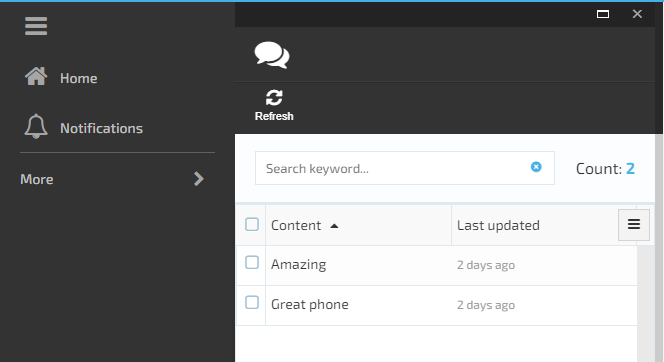
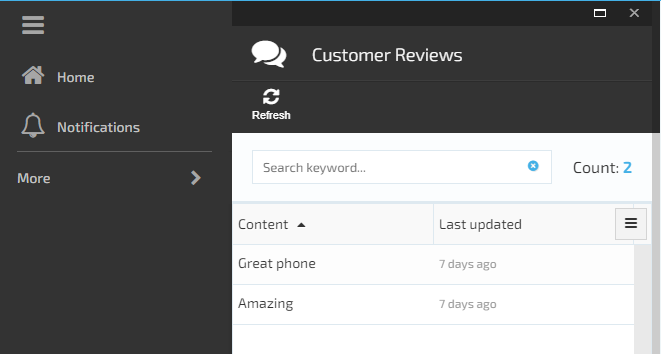
Add screenshots for blade CCIT-195
Blade titel defenition moved to state registring

diff --git a/pages/docs/lessons/lesson4.md b/pages/docs/lessons/lesson4.md
@@ -47,17 +47,24 @@ Please review this UI elements before you start creating "Customer Reviews" modu
 
 Blade is a main UI element of the Platform Manager. Every blade has basic parts such as Maximize, Close buttons on the top and the title, toolbar, main content placeholders following down. You can find out all the blade features on the [Blade constructor](https://virtocommerce.com/guides/blade-constructor)
 
+![Blade](../../assets/images/docs/lesson4-blade.png)
+
 Read more about blades in the [Blades and navigation](https://virtocommerce.com/docs/vc2devguide/working-with-platform-manager/basic-functions/blades-and-navigation) article.
+
 
 ### Toolbar
 
 A blade toolbar is a dedicated area inside blade for adding commands. Hereinafter, the toolbar commands shall be referenced to as toolbar items.
+
+![Toolbar](../../assets/images/docs/lesson4-blade-toolbar.png)
 
 Read more about toolbar in the [Blade toolbar](https://virtocommerce.com/docs/vc2devguide/working-with-platform-manager/basic-functions/blade-toolbar) article.
 
 ### Metaform
 
 A metaform is a placeholder (container) control that renders UI content based on provided metadata.
+
+![Metaform](../../assets/images/docs/lesson4-blade-metaform.png)
 
 Read more about metaform in the [Metaform](https://virtocommerce.com/docs/vc2devguide/working-with-platform-manager/basic-functions/metaform) article.
 
@@ -71,6 +78,8 @@ A widget is a relatively simple and intuitive web UI component in Platform Manag
 * is reusable and can be added to many blades (widget containers) in various places.
 
 A widget container is a placeholder control for widgets.
+
+![Widgetcontainer](../../assets/images/docs/lesson4-blade-widgetcontainer.png)
 
 Read more about widget container in the [Widgets](https://virtocommerce.com/docs/vc2devguide/working-with-platform-manager/basic-functions/widgets) article.
 
@@ -180,7 +189,6 @@ angular.module('customerReviewsModule')
 
 
             blade.headIcon = 'fa-comments';
-            blade.title = 'customerReviewsModule.blades.review-list.title'
 
             blade.toolbarCommands = [
                 {
@@ -266,6 +274,7 @@ angular.module(moduleName, [])
                         '$scope', 'platformWebApp.bladeNavigationService', function ($scope, bladeNavigationService) {
                             var newBlade = {
                                 id: 'reviewsList',
+                                title: 'customerReviewsModule.blades.review-list.title',
                                 controller: 'customerReviewsModule.reviewsListController',
                                 template: 'Modules/$(CustomerReviewsModule)/Scripts/blades/reviews-list.tpl.html',
                                 isClosingDisabled: true
@@ -350,7 +359,6 @@ angular.module('customerReviewsModule')
         });
     }]);
 ```
-
 
 3. Create a new *customerReviewWidget.tpl.html* widget template file in *\CustomerReviewsModule.Web\Scripts\widgets* folder:
 
